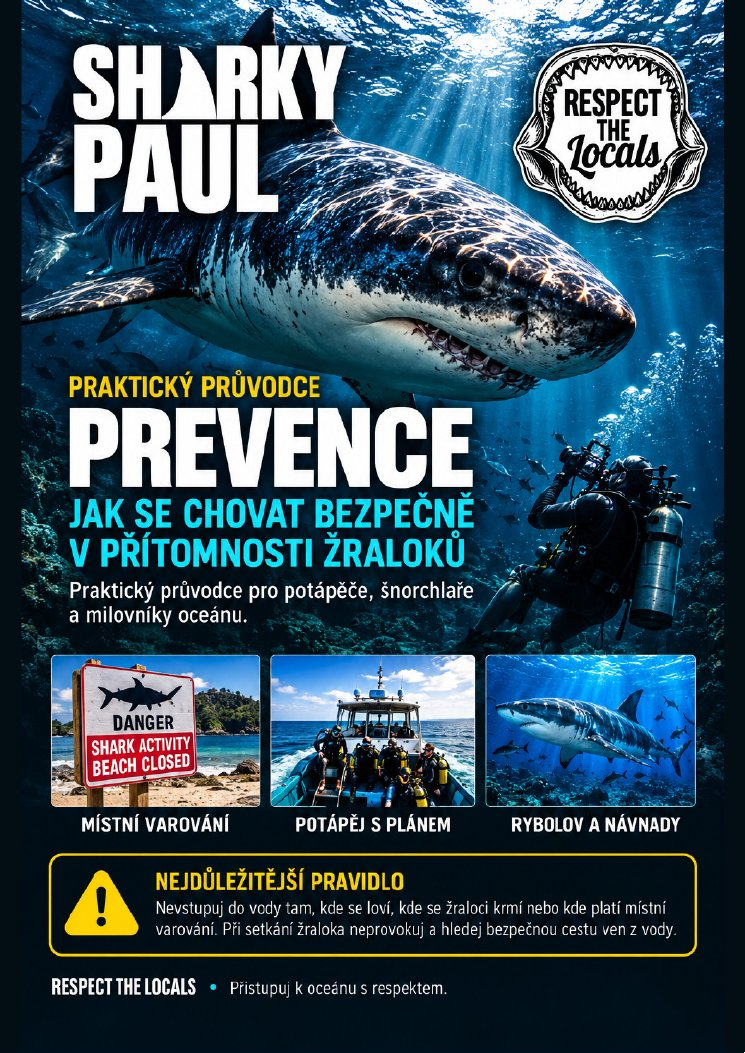
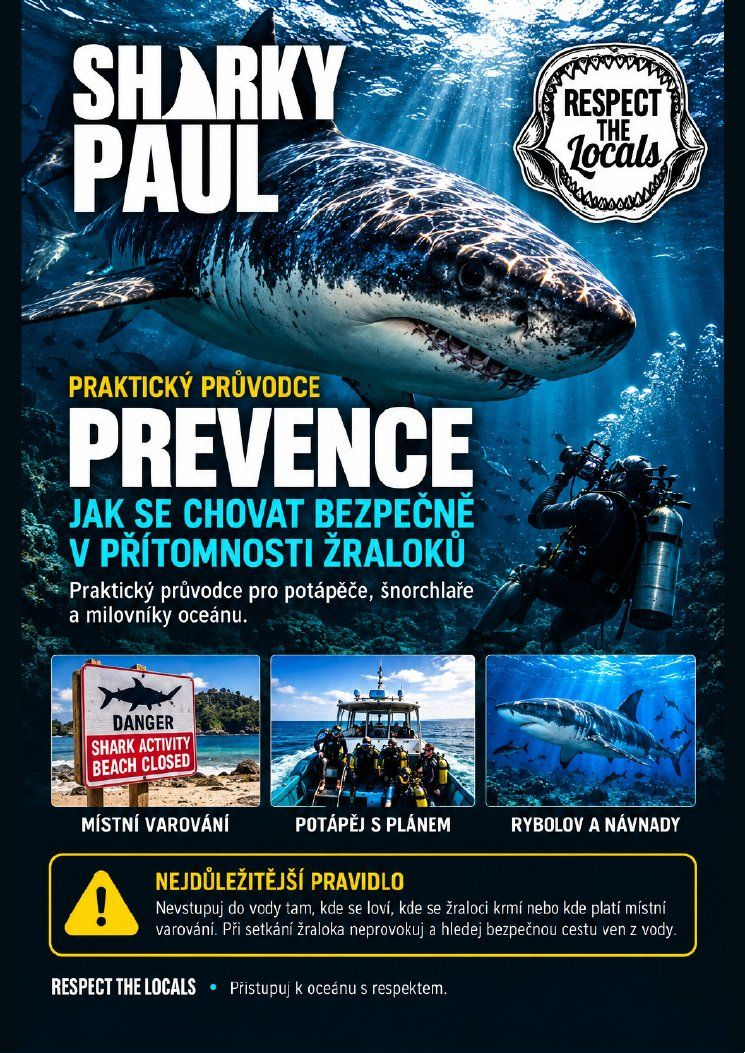
SEO: metadata, Open Graph obrázek, sitemap, robots, manifest, strukturovaná data, ikony webu, rychlejší obrázky
Claude-Session: https://claude.ai/code/session_01SuDsdgdYdSBZ6TPH9Fhb2v

Changed region(s): [[0.2161, 0.8205, 0.4013, 0.8509], [0.4322, 0.8205, 0.4631, 0.8509]]

diff --git a/app/layout.tsx b/app/layout.tsx
@@ -1,31 +1,106 @@
-import type { Metadata } from "next";
-import { Geist, Geist_Mono } from "next/font/google";
+import type { Metadata, Viewport } from "next";
 import Script from "next/script";
 import "./globals.css";
 
-const geistSans = Geist({
-  variable: "--font-geist-sans",
-  subsets: ["latin"],
-});
-
-const geistMono = Geist_Mono({
-  variable: "--font-geist-mono",
-  subsets: ["latin"],
-});
+const SITE = "https://www.sharkypaul.com";
+const DESC =
+  "Sharky Paul – potápěč, tvůrce obsahu a DJ. Oceán, žraloci a potápění v Rudém moři, expedice v malých skupinách, hudba Afro Tribal Bounce a příručka Prevence zdarma ke stažení. Respect the Locals.";
 
 export const metadata: Metadata = {
-  title: "Sharky Paul – Respect the Locals",
-  description: "Oceán, potápění, žraloci, hudba a cesty. Expedice v Rudém moři, příručka Prevence zdarma ke stažení.",
+  metadataBase: new URL(SITE),
+  title: {
+    default: "Sharky Paul – Respect the Locals | Potápění, žraloci, Rudé moře",
+    template: "%s | Sharky Paul",
+  },
+  description: DESC,
+  keywords: [
+    "Sharky Paul",
+    "Respect the Locals",
+    "žraloci",
+    "potápění",
+    "Rudé moře",
+    "potápěčské expedice",
+    "šnorchlování",
+    "bezpečnost u žraloků",
+    "příručka prevence",
+    "Afro Tribal Bounce",
+    "Egypt potápění",
+  ],
+  authors: [{ name: "Sharky Paul", url: SITE }],
+  creator: "Sharky Paul",
+  alternates: { canonical: "/" },
+  openGraph: {
+    type: "website",
+    url: SITE,
+    siteName: "Sharky Paul",
+    locale: "cs_CZ",
+    title: "Sharky Paul – Respect the Locals",
+    description: DESC,
+    images: [{ url: "/images/og-sharkypaul.jpg", width: 1200, height: 630, alt: "Sharky Paul – Respect the Locals" }],
+  },
+  twitter: {
+    card: "summary_large_image",
+    title: "Sharky Paul – Respect the Locals",
+    description: DESC,
+    images: ["/images/og-sharkypaul.jpg"],
+  },
+  robots: { index: true, follow: true, googleBot: { index: true, follow: true, "max-image-preview": "large" } },
+};
+
+export const viewport: Viewport = {
+  themeColor: "#0a0a0a",
+};
+
+const jsonLd = {
+  "@context": "https://schema.org",
+  "@graph": [
+    {
+      "@type": "Person",
+      "@id": `${SITE}/#person`,
+      name: "Sharky Paul",
+      url: SITE,
+      image: `${SITE}/images/og-sharkypaul.jpg`,
+      jobTitle: "Potápěč, tvůrce obsahu a DJ",
+      description: DESC,
+      sameAs: [
+        "https://www.instagram.com/sharky_paul_edu",
+        "https://www.tiktok.com/@sharkypaul.real",
+        "https://www.youtube.com/@SharkyPaulOfficial",
+        "https://open.spotify.com/artist/2GHTzhhq2NyBqjfnpyXTme",
+      ],
+    },
+    {
+      "@type": "WebSite",
+      "@id": `${SITE}/#website`,
+      url: SITE,
+      name: "Sharky Paul",
+      inLanguage: "cs-CZ",
+      publisher: { "@id": `${SITE}/#person` },
+    },
+    {
+      "@type": "DigitalDocument",
+      name: "Prevence – Jak se chovat bezpečně v přítomnosti žraloků",
+      description:
+        "Praktický průvodce pro potápěče, šnorchlaře a milovníky oceánu: prevence, chování žraloků, krizové situace, vybavení, kontrolní seznam a mýty.",
+      url: `${SITE}/downloads/sharky-paul-prevence-zraloci.pdf`,
+      encodingFormat: "application/pdf",
+      inLanguage: "cs-CZ",
+      isAccessibleForFree: true,
+      author: { "@id": `${SITE}/#person` },
+      image: `${SITE}/images/prirucka-prevence.jpg`,
+    },
+  ],
 };
 
 export default function RootLayout({ children }: LayoutProps<"/">) {
   return (
-    <html
-      lang="cs"
-      className={`${geistSans.variable} ${geistMono.variable} h-full antialiased`}
-    >
+    <html lang="cs" className="h-full antialiased">
       <body className="min-h-full flex flex-col">
         {children}
+        <script
+          type="application/ld+json"
+          dangerouslySetInnerHTML={{ __html: JSON.stringify(jsonLd) }}
+        />
         {/* Vercel Web Analytics – bez cookies, počítá návštěvy stránek */}
         <Script src="/_vercel/insights/script.js" strategy="afterInteractive" />
       </body>

diff --git a/app/page.tsx b/app/page.tsx
@@ -84,10 +84,11 @@ export default function Home() {
       </header>
 
       <section className="hero">
-        <img className="hero-fin" src="/images/fin.png" alt="Sharky Paul" />
+        <img className="hero-fin" src="/images/fin.png" alt="Sharky Paul logo" fetchPriority="high" />
+        <h1 className="sr-only">Sharky Paul – Respect the Locals: potápění, žraloci a oceán</h1>
         <div className="eyebrow">Welcome to Sharky Paul World</div>
         <img
-          src="/images/respect-the-locals.png"
+          src="/images/respect-the-locals.webp"
           alt="Respect The Locals"
           style={{ width: "min(420px, 80vw)", marginBottom: 20 }}
         />
@@ -106,7 +107,7 @@ export default function Home() {
       <section className="mission" id="mission">
         <div className="mission-collage">
           {collageImages.map((src, i) => (
-            <img key={i} src={src} alt="Sharky Paul" />
+            <img key={i} src={src} alt={`Sharky Paul – potápění a oceán, foto ${i + 1}`} loading="lazy" />
           ))}
         </div>
         <div className="mission-text">
@@ -308,7 +309,7 @@ export default function Home() {
         <div className="coll-grid">
           {collectionItems.map((item, i) => (
             <div className="coll-item" key={i}>
-              <img src={item.src} alt="Sharky Paul kolekce" />
+              <img src={item.src} alt={`Sharky Paul kolekce – ${item.tag}`} loading="lazy" />
               <div className="coll-tag">{item.tag}</div>
             </div>
           ))}

diff --git a/app/manifest.ts b/app/manifest.ts
@@ -1,0 +1,15 @@
+import type { MetadataRoute } from "next";
+
+export default function manifest(): MetadataRoute.Manifest {
+  return {
+    name: "Sharky Paul – Respect the Locals",
+    short_name: "Sharky Paul",
+    description: "Oceán, potápění, žraloci a hudba. Respect the Locals.",
+    start_url: "/",
+    display: "standalone",
+    background_color: "#0a0a0a",
+    theme_color: "#0a0a0a",
+    lang: "cs",
+    icons: [{ src: "/icon.png", sizes: "512x512", type: "image/png" }],
+  };
+}

diff --git a/app/sitemap.ts b/app/sitemap.ts
@@ -1,0 +1,11 @@
+import type { MetadataRoute } from "next";
+
+const SITE = "https://www.sharkypaul.com";
+
+export default function sitemap(): MetadataRoute.Sitemap {
+  const now = new Date();
+  return [
+    { url: `${SITE}/`, lastModified: now, changeFrequency: "weekly", priority: 1 },
+    { url: `${SITE}/downloads/sharky-paul-prevence-zraloci.pdf`, lastModified: now, changeFrequency: "monthly", priority: 0.8 },
+  ];
+}

diff --git a/app/prirucka/layout.tsx b/app/prirucka/layout.tsx
@@ -1,0 +1,11 @@
+import type { Metadata } from "next";
+
+export const metadata: Metadata = {
+  title: "Příručka Prevence – stažení",
+  robots: { index: false, follow: true },
+  alternates: { canonical: "/downloads/sharky-paul-prevence-zraloci.pdf" },
+};
+
+export default function PriruckaLayout({ children }: { children: React.ReactNode }) {
+  return children;
+}

diff --git a/app/globals.css b/app/globals.css
@@ -202,3 +202,4 @@ footer{
   .guide-cover{max-width:260px;}
 }
 .guide-note{margin-top:16px;padding:14px 16px;border:1px solid var(--accent);background:rgba(77,184,232,.08);font-size:14px;line-height:1.6;color:#c8dde8;}
+.sr-only{position:absolute;width:1px;height:1px;padding:0;margin:-1px;overflow:hidden;clip:rect(0,0,0,0);white-space:nowrap;border:0;}

diff --git a/app/robots.ts b/app/robots.ts
@@ -1,0 +1,9 @@
+import type { MetadataRoute } from "next";
+
+export default function robots(): MetadataRoute.Robots {
+  return {
+    rules: [{ userAgent: "*", allow: "/", disallow: ["/prirucka"] }],
+    sitemap: "https://www.sharkypaul.com/sitemap.xml",
+    host: "https://www.sharkypaul.com",
+  };
+}
